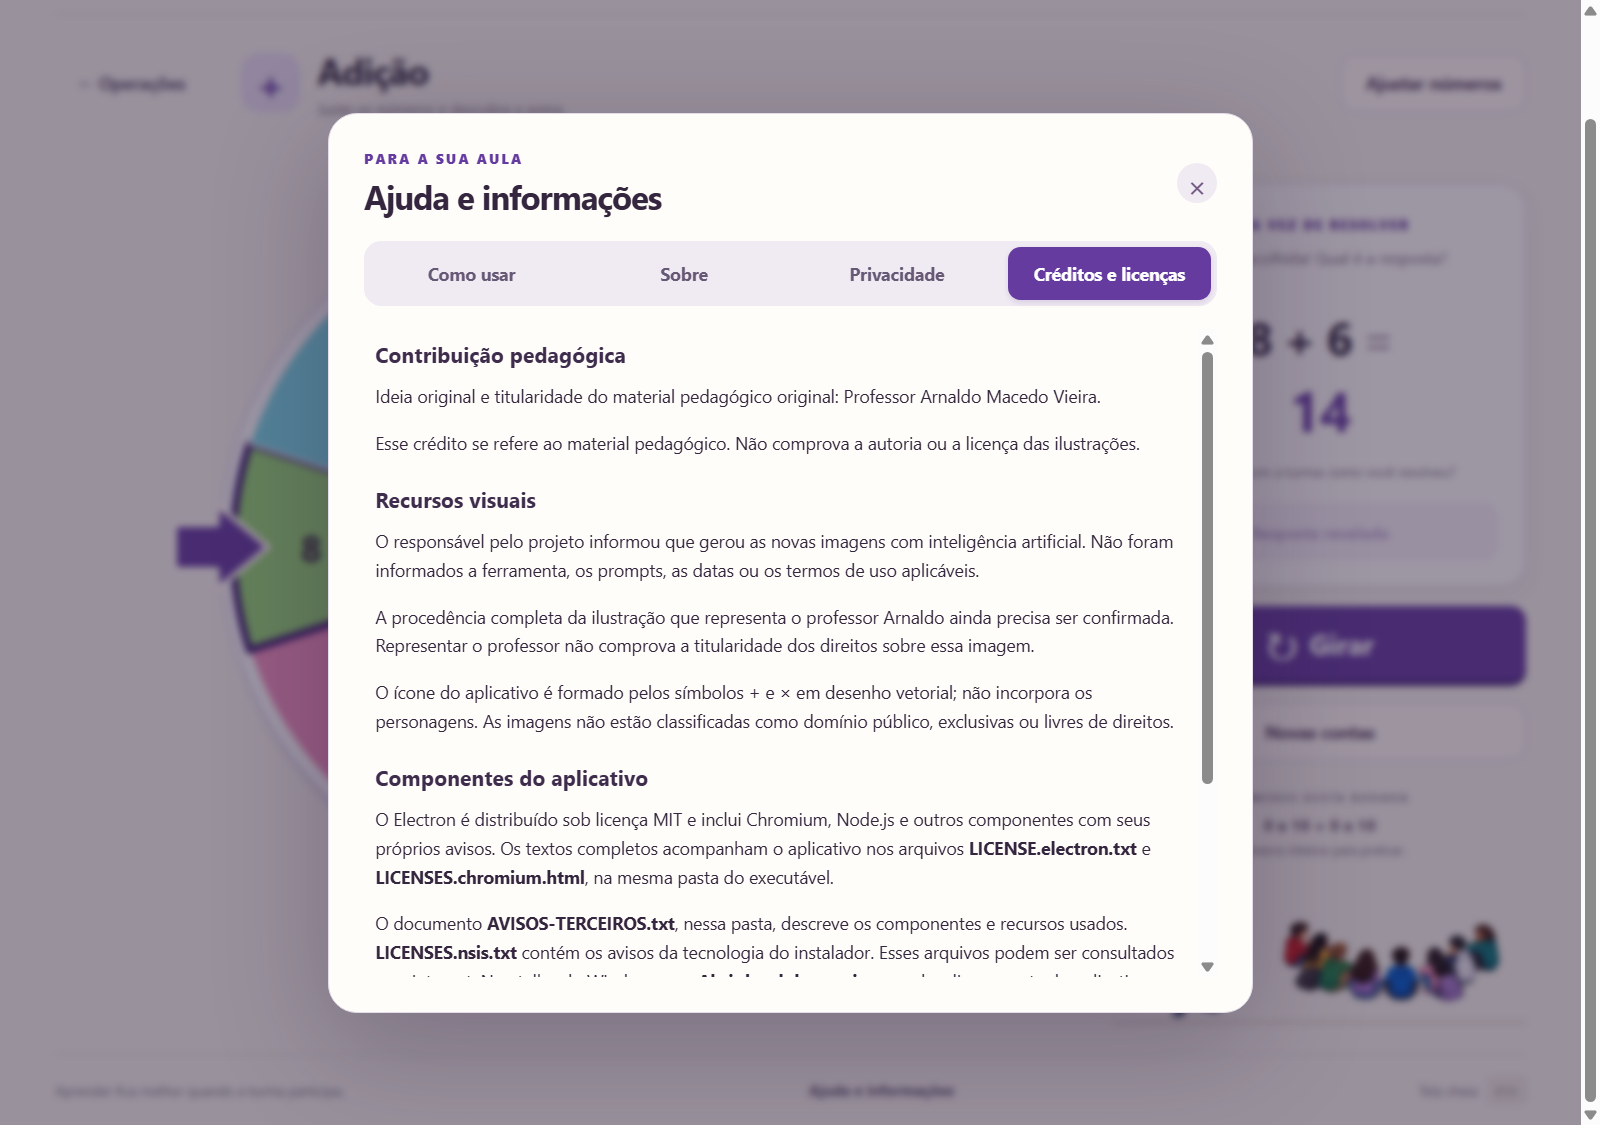
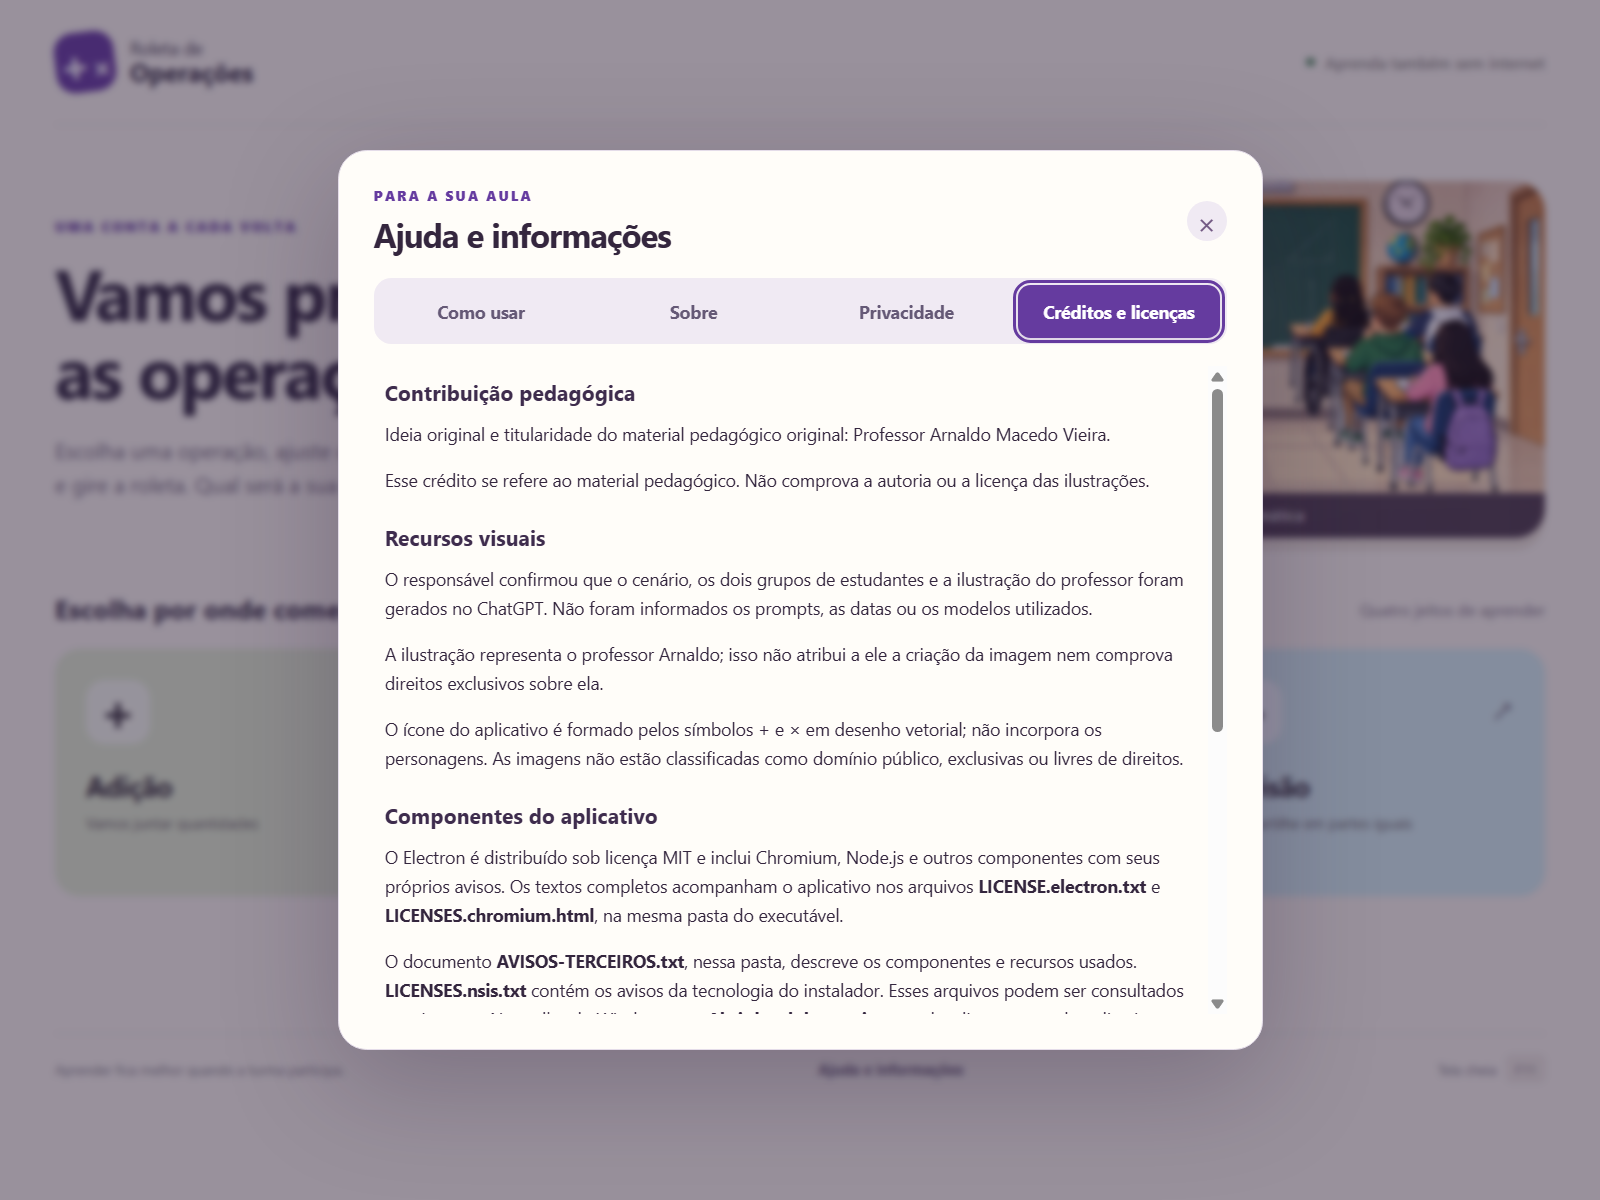
docs(release): registra validação e relatos do usuário para 1.1.0

diff --git a/README.md b/README.md
@@ -20,7 +20,7 @@ As notas da versão e o SHA-256 do instalador estão na página da Release. Para
 
 ## Telas do aplicativo
 
-Capturas reais do aplicativo em desenvolvimento, com as alterações em preparação para a próxima versão. As [capturas da v1.0.0](docs/referencias/capturas-v1.0.0/) foram preservadas como referência.
+Capturas reais do aplicativo, com os recursos visuais da versão 1.1.0. As [capturas da v1.0.0](docs/referencias/capturas-v1.0.0/) foram preservadas como referência.
 
 | Menu inicial | Adição |
 | --- | --- |
@@ -53,7 +53,7 @@ O botão **Ajuda e informações**, no rodapé do menu e da atividade, abre quat
 - **Como usar:** guia para conduzir a atividade, ajustar os números e usar os atalhos.
 - **Sobre:** versão obtida do próprio aplicativo, autoria, crédito pedagógico e contato com o botão **Copiar e-mail**.
 - **Privacidade:** o que fica salvo no computador e como funciona o contato opcional.
-- **Créditos e licenças:** contribuição pedagógica, procedência dos recursos e avisos dos componentes distribuídos.
+- **Créditos e licenças:** contribuição pedagógica, procedência dos recursos, avisos de terceiros e licença de uso completa.
 
 ![Seção Créditos e licenças na janela de ajuda](docs/imagens/creditos-licencas.png)
 
@@ -61,15 +61,23 @@ A ajuda funciona offline. Use **Tab** para percorrer os controles e as setas, **
 
 Os intervalos são armazenados por operação no perfil local do usuário. O aplicativo não tem cadastro, campos para dados de alunos, histórico salvo de respostas ou telemetria. Para entrar em contato, copie `gersonrbvieira@gmail.com` e use seu aplicativo de e-mail; o envio depende desse aplicativo e de internet.
 
-O código atual também usa novos cenário, grupos de estudantes e representação do professor, com elementos separados e proporções preservadas. A procedência informada e as pendências estão em [ORIGEM.md](app/assets/ORIGEM.md); os componentes distribuídos estão no [inventário de terceiros](docs/terceiros.md).
+O aplicativo usa cenário, grupos de estudantes e representação do professor, com elementos separados e proporções preservadas. O responsável confirmou que os quatro novos recursos foram gerados no ChatGPT; veja [ORIGEM.md](app/assets/ORIGEM.md). Os componentes distribuídos estão no [inventário de terceiros](docs/terceiros.md).
 
-Essas alterações estão em preparação para a próxima versão e não foram publicadas nesta etapa. Consulte as notas da Release baixada para saber quais recursos ela contém.
+As mudanças desde a versão anterior estão nas [notas da v1.1.0](docs/notas/v1.1.0.md). Consulte a página de Releases para baixar a distribuição disponível.
+
+## Licença de uso
+
+Software de Gerson Vieira sob [licença proprietária de uso gratuito](LICENSE.txt) para pessoas, professores e instituições públicas ou privadas, inclusive em aulas remuneradas. A versão recebida permanece gratuita enquanto a licença for cumprida, sem cobrança retroativa ou expiração automática. Versões futuras, edições adicionais e serviços poderão ser pagos.
+
+É permitido compartilhar o link oficial de download. Modificação, revenda, sublicenciamento e redistribuição dependem de autorização, com as ressalvas da licença, da lei, dos termos do GitHub e das licenças de terceiros. As permissões de visualização e fork do repositório público são preservadas. O texto completo também está disponível offline em **Créditos e licenças** e junto ao executável. Autorizações: `gersonrbvieira@gmail.com`.
+
+O crédito pedagógico ao Professor Arnaldo Macedo Vieira não estende essa licença ao PowerPoint original. O licenciamento do software não promete direitos exclusivos sobre os recursos gerados com IA.
 
 ## Compatibilidade
 
 A distribuição é para **Windows 10 e 11 x64 (Intel/AMD)**. Windows 7, 8, 8.1 e sistemas de 32 bits não são suportados. Não há pacote nativo ARM64 neste projeto. A compatibilidade acompanha o [Electron 44.3.0](https://github.com/electron/electron/blob/v44.3.0/README.md#platform-support).
 
-A versão 1.0.0 não tem assinatura digital. A instalação e o uso no projetor ainda precisam ser conferidos no computador da escola; veja o [registro de testes](docs/validacao.md).
+O instalador não tem assinatura digital. O usuário confirmou o funcionamento no computador da escola e a desinstalação; não relatou teste de atualização entre versões. A abrangência desses relatos e das verificações automatizadas está no [registro de testes](docs/validacao.md).
 
 ## Desenvolvimento
 
@@ -105,11 +113,11 @@ npm.cmd run test:packaged
 npm.cmd run verify:distribution
 ```
 
-Arquivos gerados para a versão 1.0.0:
+Arquivos gerados para a versão 1.1.0:
 
 ```text
-dist/Roleta-Operacoes-1.0.0-Windows-x64-Instalador.exe
-dist/Roleta-Operacoes-1.0.0-Windows-x64.zip
+dist/Roleta-Operacoes-1.1.0-Windows-x64-Instalador.exe
+dist/Roleta-Operacoes-1.1.0-Windows-x64.zip
 dist/SHA256SUMS.txt
 ```
 
@@ -130,10 +138,10 @@ Veja o [procedimento de lançamento](docs/releases.md) para atualizar a versão,
 ## Código e documentação
 
 - [Arquitetura](docs/arquitetura.md): módulos, regras das contas e cálculo do giro.
-- [Testes](docs/validacao.md): verificações realizadas e teste pendente na escola.
+- [Testes](docs/validacao.md): verificações realizadas, relatos do usuário e limites da cobertura.
 - [Lançamentos](docs/releases.md): publicação do instalador pelo GitHub Actions.
-- [Próxima versão](docs/proxima-release.md): notas ainda não publicadas.
-- [Origem das imagens](app/assets/ORIGEM.md): recursos atuais e informações pendentes.
+- [Versão 1.1.0](docs/notas/v1.1.0.md): notas das alterações.
+- [Origem das imagens](app/assets/ORIGEM.md): recursos atuais e procedência informada.
 - [Componentes e avisos](docs/terceiros.md): runtime, ferramentas e licenças de terceiros.
 
 O PowerPoint `roleta da adição.pptx` é uma referência local e está no `.gitignore`. As imagens necessárias já estão em `app/assets/`; o original não é necessário para executar ou empacotar o projeto. Quem tiver o arquivo na raiz pode conferir sua integridade com `npm.cmd run verify:reference`.

diff --git a/docs/validacao.md b/docs/validacao.md
@@ -1,6 +1,8 @@
 # Registro de verificações
 
-Os registros são separados por etapa. A versão do manifesto continua em 1.0.0; as alterações locais posteriores à publicação ainda não integram a Release disponível no GitHub.
+Os registros são separados por etapa. A versão atual do manifesto é 1.1.0. Os resultados e as pendências históricas abaixo descrevem o estado em cada data; a atualização mais recente está ao final.
+
+O usuário confirmou o funcionamento no computador da escola e a desinstalação em relato recebido nesta tarefa, em 12/09/2026. Esses itens estão concluídos conforme esse relato, sem atribuí-los a uma execução automatizada. Não foram informados a versão testada, detalhes do equipamento ou um teste de atualização entre versões.
 
 ## Distribuição inicial — 10/09/2026
 
@@ -51,7 +53,7 @@ O teste do pacote abre `dist/win-unpacked/Roleta de Operações.exe`. O instalad
 
 ## Teste no computador da escola
 
-Ainda falta validar no equipamento de destino:
+Roteiro elaborado na preparação inicial. O funcionamento na escola e a desinstalação foram posteriormente confirmados pelo usuário, conforme atualização acima. Os passos abaixo servem para repetir a verificação quando necessário:
 
 1. Windows 10 ou 11 x64 e permissão para instalar ou executar o aplicativo com o usuário da escola.
 2. Instalação ou extração do ZIP e primeira abertura com a rede desligada.
@@ -67,7 +69,7 @@ Roteiro para a próxima versão, com a conta de usuário usada pelo professor:
 - Instalar uma versão posterior sobre a anterior, conferir a versão em Sobre e a preservação dos intervalos. Esse teste depende da definição e geração dessa versão posterior.
 - Fechar o aplicativo, desinstalar pelas configurações do Windows e conferir a remoção do programa e dos atalhos. Registrar se o perfil local de configurações foi mantido ou removido.
 
-Instalação, atualização e desinstalação não foram executadas nesta etapa. Gerar o instalador e abrir `win-unpacked` não comprova esses procedimentos.
+Os testes automatizados desta preparação inicial não executaram instalação, atualização ou desinstalação. O relato posterior do usuário confirma o funcionamento na escola e a desinstalação; não informa teste de atualização. Gerar o instalador e abrir `win-unpacked` não comprova esses procedimentos.
 
 Os testes automatizados não cobrem as políticas de execução da escola nem o desempenho no projetor. Eventuais bloqueios do executável sem assinatura precisam ser avaliados pela equipe de TI.
 
@@ -123,3 +125,23 @@ Os PNGs mantêm os arquivos fornecidos, suas proporções e a transparência dos
 O instalador gerado mede aproximadamente 114,7 MiB e o ZIP, 154,5 MiB. A conferência confirmou os novos recursos e os avisos originais do Electron, Chromium e NSIS; o PowerPoint, as referências antigas e os arquivos de desenvolvimento ficaram fora do pacote. Isso verifica o conteúdo preparado para distribuição, sem substituir o teste do assistente de instalação.
 
 Continuam pendentes a instalação, atualização, desinstalação e o uso real no projetor da escola, seguindo o roteiro acima. A procedência completa do avatar, os termos de uso e redistribuição das imagens e a licença do código dependem do responsável; veja [ORIGEM.md](../app/assets/ORIGEM.md) e o [inventário de terceiros](terceiros.md).
+
+## Versão 1.1.0 — 12/09/2026
+
+Atualização do registro anterior: o responsável confirmou a geração dos quatro novos recursos no ChatGPT, incluindo o avatar, e definiu a licença proprietária de uso gratuito. Esses pontos estão resolvidos conforme suas decisões, sem declaração de direitos exclusivos sobre as imagens. A árvore da tag v1.0.0 e a Release anterior foram consultadas; não foi encontrada uma licença própria do projeto, e nenhuma permissão anterior ou licença de terceiros foi substituída retroativamente.
+
+O funcionamento no computador da escola e a desinstalação foram confirmados pelo usuário. O relato não identifica a versão usada, a data de cada teste ou detalhes sobre hardware, projetor e rede; não foram acrescentados resultados específicos a essa confirmação. Atualização entre versões não foi relatada.
+
+Verificações locais desta preparação:
+
+- 28 testes unitários aprovados, incluindo correspondência entre a licença completa offline, o documento canônico e os metadados.
+- `verify:release -- v1.1.0` aprovado: versão do aplicativo e as duas entradas do lock correspondem à tag preparada.
+- `test:desktop` aprovado: quatro operações, seta e respostas, ajustes, renovação, persistência ao reabrir, ajuda, teclado e licença completa com perfil novo e rede emulada offline.
+- Workflow aprovado no actionlint 1.7.12; testes de publicação verificam as notas em português, o hash e a recusa de Releases existentes, sem chamadas reais de publicação nesses testes.
+- PowerPoint com hash original; revisão dos arquivos previstos para envio sem arquivos ignorados rastreados ou padrões comuns de credenciais identificados.
+
+O texto completo da licença foi inspecionado na interface real. Nenhum teste automatizado aqui descrito executa o assistente de instalação, a atualização ou a desinstalação do aplicativo.
+
+`dist:win`, `test:packaged` e `verify:distribution` também foram concluídos com sucesso para a v1.1.0. O executável empacotado passou nos mesmos fluxos offline da interface, incluindo a licença completa. O verificador foi corrigido para procurar `LICENSE.txt` junto ao executável: arquivos declarados em `extraFiles` são excluídos do ASAR pelo empacotador. A ajuda contém o texto gerado em `app/license.mjs`, conferido contra o documento canônico.
+
+Uma comparação adicional confirmou que o ASAR, a licença própria, o guia e os quatro avisos de terceiros no ZIP são idênticos aos da pasta testada. O instalador local tem aproximadamente 114,7 MiB; o ZIP, 154,5 MiB. A captura dos créditos foi atualizada a partir do executável real. A execução do Actions e a Release correspondentes podem ser consultadas no GitHub; sucesso do build não substitui o teste de atualização ainda não relatado.
